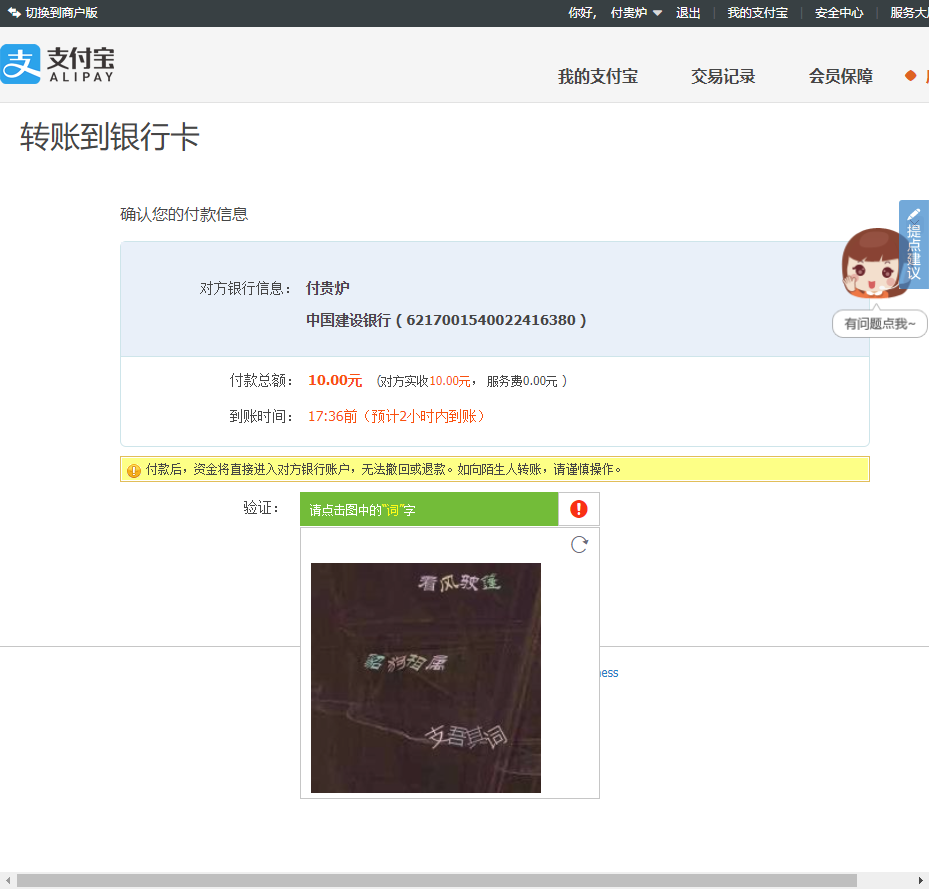
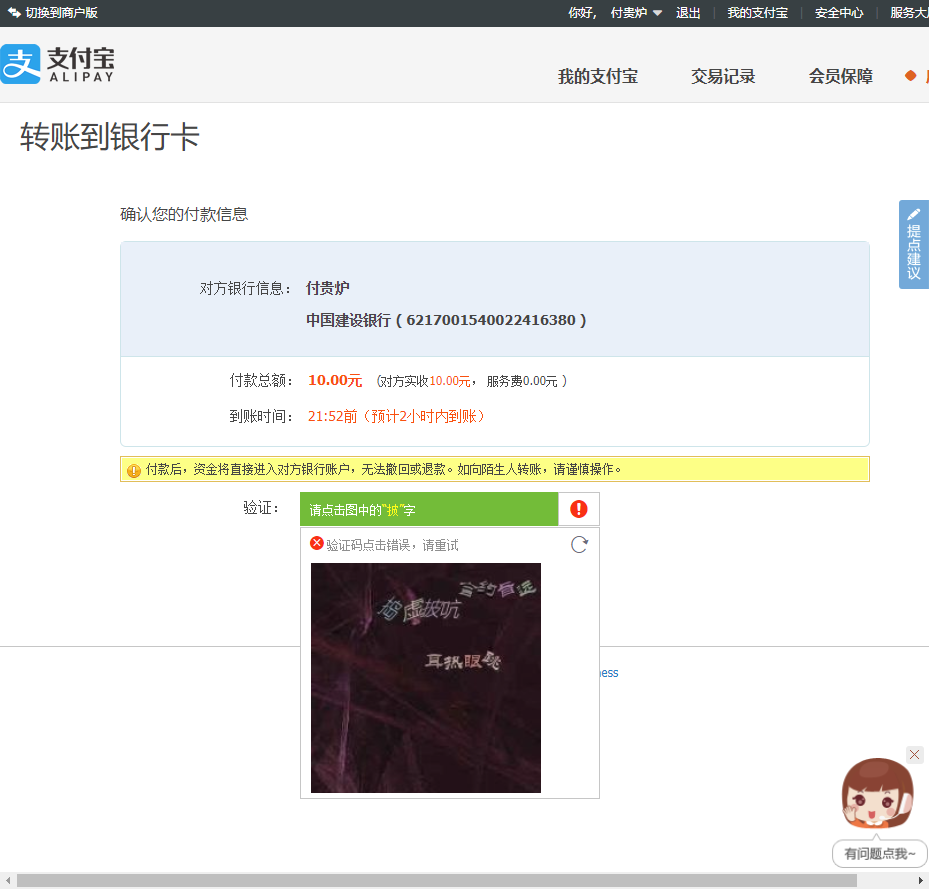
zhifubao dianxuanhanzi yanzhengma

diff --git a/zijinguiji/card_transfer.py b/zijinguiji/card_transfer.py
@@ -16,6 +16,8 @@ import pytesseract
 import time
 import numpy as np
 import cv2
+import json
+from houtai.zijinguiji.tx_yinshua import tx_yinshua
 
 def linktext_iselement(element):
     flag=True
@@ -25,6 +27,7 @@ def linktext_iselement(element):
     except :
         flag=False
         return flag
+
 
 def xpath_iselement(element):
     flag=True
@@ -111,7 +114,7 @@ for line in lines:
         print "yes1"
         for i in user:
             t=random.randint(1,3)
-            print i
+            # print i
             time.sleep(t)
             driver.find_element_by_xpath("//*[@id='J-input-user']").send_keys(i)
         time.sleep(1)
@@ -208,7 +211,6 @@ for line in lines:
         print "yes1"
         for i in user:
             t=random.randint(1,3)
-            print i
             time.sleep(t)
             driver.find_element_by_xpath("//*[@id='J-input-user']").send_keys(i)
         time.sleep(1)
@@ -230,7 +232,10 @@ for line in lines:
             time.sleep(1)
             driver.refresh()
             time.sleep(1)
+            driver.find_element_by_xpath('//*[@class="personal-login"]').click()
+            time.sleep(1)
             driver.find_element_by_xpath('//*[@href="https://my.alipay.com/portal/i.htm"]').click()
+
         time.sleep(1)
         #获取当前金额
         driver.find_element_by_xpath('//*[@class="show-text"]').click()
@@ -280,32 +285,61 @@ for line in lines:
             time.sleep(0.005)
         ActionChains(driver).release(on_element=huakuai).perform()
         time.sleep(2)
-        #获取需要点击的汉字
-        hanzi=driver.find_element_by_xpath('//*[@id="nc_1__scale_text"]/i').text    # “词”
-        hanzi="'"+hanzi+"'"
-        hanzi=hanzi.split('“')[1].split('”')[0] #分割出需要被识别的汉字
-        # print hanzi
-        #截图点选汉字图片
-        img=driver.find_element_by_tag_name('img')
-        size=img.size
-        print size
-        location=img.location
-        print location
-        driver.save_screenshot('./tupian/datu.png')
-        rangle = (int(location['x']), \
-                  int(location['y']), \
-                  int(location['x'] + size['width']), \
-                  int(location['y'] + size['height']))
-        png = Image.open('./tupian/datu.png')
-        png2 = png.crop(rangle)
-        pic = png2.save('./tupian/xiaotu.png')
-        #处理图片
-        erzhihua('./tupian/xiaotu.png')
-        #识别汉字
 
+        yes_text='//*[@data-nc-lang="_yesTEXT"]'
+        while not xpath_iselement(yes_text):    #验证通过不存在 进行点选汉字
+            #获取需要点击的汉字
+            time.sleep(5)
+            hanzi=driver.find_element_by_xpath('//*[@id="nc_1__scale_text"]/i').text    # “词”
+            print type(hanzi)   #unicode
+            hanzi=hanzi.split(u'“')[1].split(u'”')[0] #分割出需要被识别的汉字  词
+            print "hanzi: %s"%hanzi
+            print type(hanzi)
+            #截图点选汉字图片
+            img=driver.find_element_by_tag_name('img')
+            size=img.size
+            print "size:%s"%size          #size:{'width': 230, 'height': 230}
+            location=img.location   #location:{'y': 563.0, 'x': 311.0}
+            print "location:%s"%location
+            print type(location)    #<type 'dict'>
 
+            driver.save_screenshot('./tupian/datu.png')
+            rangle = (int(location['x']), \
+                      int(location['y']), \
+                      int(location['x'] + size['width']), \
+                      int(location['y'] + size['height']))
+            png = Image.open('./tupian/datu.png')
+            png2 = png.crop(rangle)
+            pic = png2.save('./tupian/xiaotu.png')
+            #处理图片
+            # erzhihua('./tupian/xiaotu.png')
+            #处理图片/识别汉字,引入tx_yinshua模块
+            hanzi_location=tx_yinshua(hanzi,'./tupian/xiaotu.png')    #{'x':121,'y':197}
+            print"hanzi_location:%s" %hanzi_location
+            if hanzi_location!=None:
+                time.sleep(2)
+                print "zheli"
+                ActionChains(driver).move_to_element_with_offset(img,hanzi_location["x"],hanzi_location["y"]).click().perform()
+                time.sleep(3)
 
-
+            else:
+                time.sleep(2)
+                ActionChains(driver).move_to_element_with_offset(img, "-100","-100").click().perform()
+                time.sleep(3)
+        time.sleep(5)
+        driver.find_element_by_xpath('//*[@value="确认信息并付款"]').click()
+        time.sleep(2)
+        driver.find_element_by_xpath('//*[@id="payPassword_container"]').click()
+        for z in zpassw:
+            time.sleep(random.randint(1,3))
+            driver.switch_to_active_element().send_keys(z)
+        driver.find_element_by_xpath('//*[@id="J_authSubmit"]').click()
+        time.sleep(1)
+        already_pay='//*[@class="notice-box  notice-success  fn-clear"]'
+        if xpath_iselement(already_pay):
+            print "银行卡转账提交成功"
+        else:
+            print "银行卡转账提交失败"
 
 
 

diff --git a/zijinguiji/aa.py b/zijinguiji/aa.py
@@ -4,15 +4,63 @@
 from selenium import webdriver
 import time
 import json
-hanzi="心"
-a={"code":0,"message":"OK","data":{"recognize_warn_msg":[],"recognize_warn_code":[],"items":[{"itemcoord":{"x":22,"y":36,"width":87,"height":26},"words":[{"character":"么","confidence":0.6924936175346375},{"character":"上","confidence":0.9979987740516664},{"character":"抑","confidence":0.6606981754302979},{"character":"油","confidence":0.9161732792854308}],"itemstring":"么上抑油"},{"itemcoord":{"x":128,"y":118,"width":90,"height":26},"words":[{"character":"以","confidence":0.9816042184829712},{"character":"必","confidence":0.50948566198349},{"character":"当","confidence":0.8555372953414917},{"character":"镜","confidence":0.9988377690315248}],"itemstring":"以必当镜"},{"itemcoord":{"x":101,"y":187,"width":80,"height":20},"words":[{"character":"创","confidence":0.4055652618408203},{"character":"您","confidence":0.722910463809967},{"character":"之","confidence":0.9305914044380188},{"character":"心","confidence":0.8593043088912964}],"itemstring":"创您之心"}],"session_id":"1258491432707977226","angle":1.98828125,"class":[]}}
-print type(a)  #dict
-items=a["data"]["items"]
-print items
-for item in items:
-    # print item
-    for word in item['words']:
-        print word
-        if word['character']==hanzi:
-            itemcoord=item['itemcoord']     #{'y': 187, 'x': 101, 'height': 20, 'width': 80}
-            print"hanzi %s" %item['itemcoord']
+
+# hanzi=u"“心”"#unicode
+# # print hanzi
+# # hanzi=hanzi.encode('gbk')
+# # print type(hanzi)
+# print hanzi
+# # hanzi = hanzi.split('“')[1].split('”')[0]  # 分割出需要被识别的汉字  #UnicodeDecodeError: 'ascii' codec can't decode byte 0xe2 in position 0: ordinal not in range(128)
+# hanzi = hanzi.split(u'“')[1].split(u'”')[0]
+# print hanzi
+# # hanzi="心" #str
+# # hanzi2=u"心"#unicode
+# # hanzi_unicode=hanzi2.encode('gbk')
+# # print type(hanzi)
+# # print type(hanzi2)
+# # print type(hanzi_unicode)
+# # a={"code":0,"message":"OK","data":{"recognize_warn_msg":[],"recognize_warn_code":[],"items":[{"itemcoord":{"x":22,"y":36,"width":87,"height":26},"words":[{"character":"么","confidence":0.6924936175346375},{"character":"上","confidence":0.9979987740516664},{"character":"抑","confidence":0.6606981754302979},{"character":"油","confidence":0.9161732792854308}],"itemstring":"么上抑油"},{"itemcoord":{"x":128,"y":118,"width":90,"height":26},"words":[{"character":"以","confidence":0.9816042184829712},{"character":"必","confidence":0.50948566198349},{"character":"当","confidence":0.8555372953414917},{"character":"镜","confidence":0.9988377690315248}],"itemstring":"以必当镜"},{"itemcoord":{"x":101,"y":187,"width":80,"height":20},"words":[{"character":"创","confidence":0.4055652618408203},{"character":"您","confidence":0.722910463809967},{"character":"之","confidence":0.9305914044380188},{"character":"心","confidence":0.8593043088912964}],"itemstring":"创您之心"}],"session_id":"1258491432707977226","angle":1.98828125,"class":[]}}
+# # print type(a)  #dict
+# # items=a["data"]["items"]
+# # print items
+# #
+# # for item in items:
+# #     # print item
+# #     i = 1
+# #     for word in item['words']:
+# #         print word
+# #         print i
+# #         if word['character']==hanzi:
+# #             itemcoord=item['itemcoord']     #{'y': 187, 'x': 101, 'height': 20, 'width': 80}
+# #             print"hanzi %s" %item['itemcoord']
+# #             x=itemcoord["x"]
+# #             y=itemcoord["y"]
+# #             height=itemcoord["height"]
+# #             width=itemcoord["width"]
+# #             y=y+int(height/2)
+# #             x=x+int(width*i/4)
+# #             print x,y
+# while not False:
+#      print 1
+#      time.sleep(5)
+#_
+# print 2
+
+from selenium.webdriver import ActionChains
+driver=webdriver.Chrome()
+driver.get("https://www.baidu.com/")
+img=driver.find_element_by_xpath('//*[@title="看春晚抢百度红包"]')
+print img.size()
+print img.location()
+ActionChains(driver).move_to_element_with_offset(img,"-22","-102").click().perform()
+
+#{'width': 0, 'height': 14}
+#{'y': 267.0, 'x': 600.0}
+y = 2
+x = 1
+# print x, y
+print  {'x': -x, 'y': -y}
+
+if x!=3:
+    print 3
+print 1

diff --git a/zijinguiji/tx_yinshua.py b/zijinguiji/tx_yinshua.py
@@ -1,7 +1,12 @@
 #!/user/bin/python
 #  -*-coding: utf-8-*-
 import time
-def tx_yinshua(hanzi):
+import json
+from hashlib import sha1
+import hmac
+import base64
+import requests
+def tx_yinshua(hanzi,file_path):
     tx_appid=open("E:\\zxtest\\tx_appid.txt","r")#只有一行
     lines=tx_appid.readlines()
     for line in lines:
@@ -18,14 +23,11 @@ def tx_yinshua(hanzi):
     rand='123456456'
     fileid=''
 
-    from hashlib import sha1
-    import hmac
-    import base64
-    import requests
     original='a='+APPID+'&b='+bucket+'&k='+SecretId+'&e='+time2+'&t='+time1+'&'+'r='+rand+'&f='+fileid
     my_sign = hmac.new(SecretKey,original, sha1).digest()
     my_sign = base64.b64encode(my_sign+original)
-    print my_sign
+    print my_sign   #WR3ajae/eK0Qj+tiAqYZKg1X9I5hPTEyNTg0OTE0MzImYj0maz1BS0lEZzZ6YzVoYVJXTHZIT0g4UWpwZ0lmbWZOelVsblk4VFomZT0xNTUwMzEwNzAxJnQ9MTU0NzcxODcwMSZyPTEyMzQ1NjQ1NiZmPQ==
+
 
     headers={
         'Authorization':my_sign
@@ -36,18 +38,37 @@ def tx_yinshua(hanzi):
         'bucket':'test',
     }
 
-    files={'image':open('./tupian/daichuli.png','rb')}
+    files={'image':open(file_path,'rb')}
 
     res=requests.post(url,data=data,files=files,headers=headers)
-    results=res.text
+    results=res.text  # {"code":0,"message":"OK","data":{"recognize_warn_msg":[],"recognize_warn_code":[],"items":[{"itemcoord":{"x":22,"y":36,"width":87,"height":26},"words":[{"character":"么","confidence":0.6924936175346375},{"character":"上","confidence":0.9979987740516664},{"character":"抑","confidence":0.6606981754302979},{"character":"油","confidence":0.9161732792854308}],"itemstring":"么上抑油"},{"itemcoord":{"x":128,"y":118,"width":90,"height":26},"words":[{"character":"以","confidence":0.9816042184829712},{"character":"必","confidence":0.50948566198349},{"character":"当","confidence":0.8555372953414917},{"character":"镜","confidence":0.9988377690315248}],"itemstring":"以必当镜"},{"itemcoord":{"x":101,"y":187,"width":80,"height":20},"words":[{"character":"创","confidence":0.4055652618408203},{"character":"您","confidence":0.722910463809967},{"character":"之","confidence":0.9305914044380188},{"character":"心","confidence":0.8593043088912964}],"itemstring":"创您之心"}],"session_id":"1258491432707977226","angle":1.98828125,"class":[]}}
+    print "tx_yinshua_hanzi：%s" %type(hanzi)
+    print results
     print type(results) #<type 'unicode'>
-    items = results["data"]["items"]
+    results=results.encode('utf-8')
+    result=json.loads(results)
+    print type(result) #<type 'dict'>
+    items = result["data"]["items"]
     for item in items:
         # print item
+        i = 1
         for word in item['words']:
-            print word
-            if word['character'] == hanzi:
+            # print word
+            # print i
+            if word['character'] == hanzi:  #Unicode可以运行成功 str 不能运行成功
                 itemcoord = item['itemcoord']  # {'y': 187, 'x': 101, 'height': 20, 'width': 80}
                 print"hanzi %s" % item['itemcoord']
-a=tx_yinshua("心")
-print a
+                x = itemcoord["x"]
+                y = itemcoord["y"]
+                height = itemcoord["height"]
+                width = itemcoord["width"]
+                y = y + int(height / 2)
+                x = x + int((width * i *2-1)/ 8)
+                # print x, y
+                return {'x':-x,'y':-y}
+            i=i+1
+#hanzi 为<type 'unicode'>时可以识别    <type 'str'>
+# hanzi=u"星"
+# print type(hanzi)
+# hanzi_location = tx_yinshua(hanzi, './tupian/xiaotu.png')  # {'x':121,'y':197}
+# print hanzi_location
